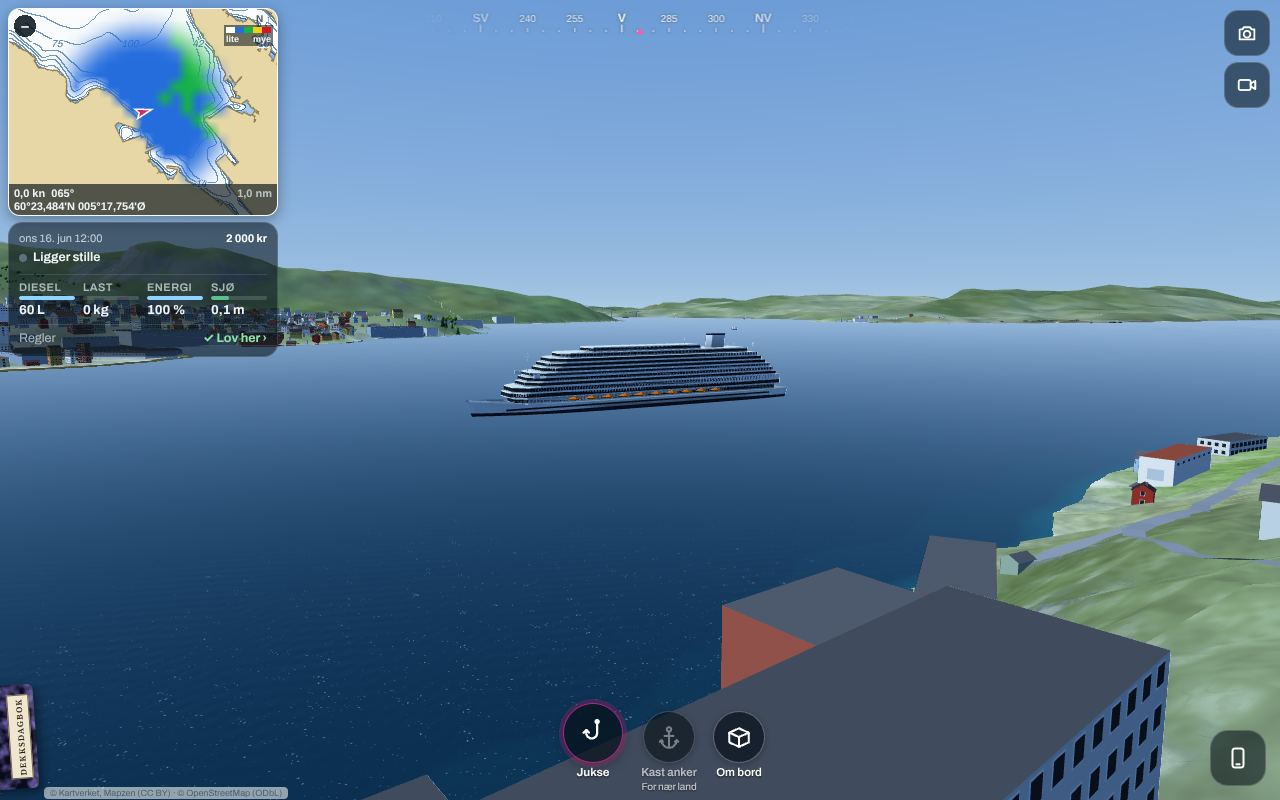
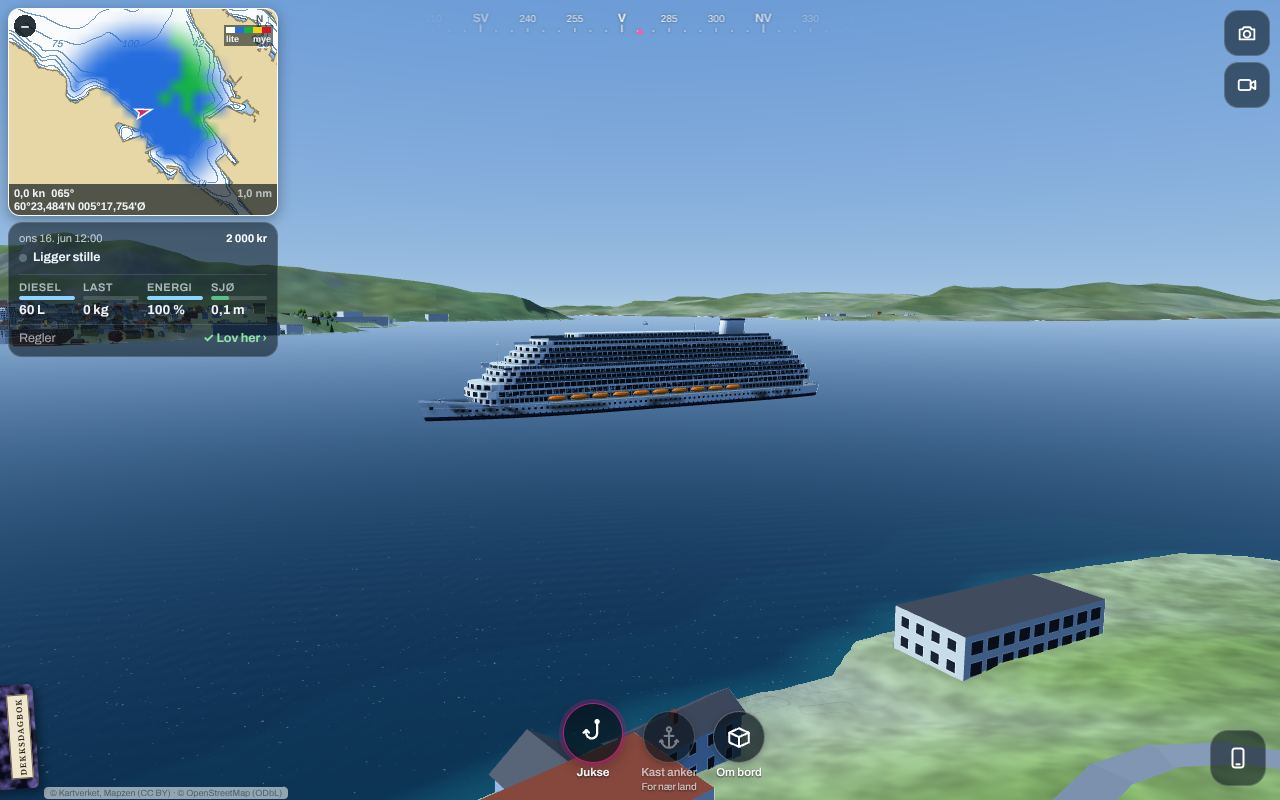
Steg 36 Ø15 N7: Bergen-målingen, stikkprøvene og de stående bildene
Bergen 16.06.2027 kl. 15 (npcmaal, vec-pakkene i bygget): 578 tegnekall og 3 032 119 trekanter per bilde før, 548 og 3 035 504 etter.
npcshot_skip stående 10 av 10 grønne, cruiseskipet i fart grønt med kameraet innen 420 m; kystruta (npcshot, kontroll av ferjene)
grønn med LOD 300 m nær, 1 km enkel, 2,2 km kassa; dbg23o stille. anchorlight3d rød på .anchal-ventingen, like rød på arbeidsgrenens
bygg uten endringen (BACKLOG 10.6, kjent). Stikkprøver langs kysten i 4.18c-2.

Claude-Session: https://claude.ai/code/session_013BxXiDfjiF1DiLJMmM77KU

diff --git a/docs/systemer/npc-trafikk.md b/docs/systemer/npc-trafikk.md
@@ -344,7 +344,8 @@ Samme regler som over (valg 2 A, bare utsiden, ingen navn, merke eller logo). Sk
 - **Lanternene** etter vedlegg I som for de andre (`check()`); regelen om at sidelanternene ikke står forut for topplanterna (3 b) gjelder fra 20 m og sjekkes bare der. En fiskebåtmodell skaleres til registerets båter opp til den lengste med redskapet (not 27,5 m, snurrevad 24,5, trål 23,4, line 22,1 m), og fra 20 m skal topplanterna stå bredden over skroget: `check()` regner det også for den lengste skalerte båten (`scale_to`), og topplanterna sitter derfor 3,8 m over styrhustaket på 15 m-modellene (kontrollen 13.11.2026 fant at 2,5 m ga 7,4–8,0 m mot 8,2–9,2 m på de lengste). **Seilbåten** viser topplanterna (motorlys) også når hun seiler; `lanterns` vet ikke om seilet, så N6 må gi seilbåtene en tilstand for det (regel 25).
 - **Oppslaget koster lite:** `npcGear` husker svaret per id og lengde (også «ingen», for båter som ikke er registerets: turbåtene og Kystvakta), og `npcGearT` regner modellen én gang per båtens oppføring (`n._gT`), ikke flere ganger per bilde. Fargedrakten gis som skrogfarge alene (`glbPaint`), ikke som et design med stripe (`glbDesign`, som leser hele modellen). **Riktigere ville vært** at `npcStates` tok med `gear` i kystflåtens oppføring (én linje i `core/05-vessels.js`, der båten `bt` alt har det); da faller oppslaget bort og to båter på samme plass med samme lengde får hvert sitt redskap. Steget fikk ikke røre `core/`, så det står i backloggen sammen med kaia.
 - **Delte id-er:** to av kystflåtens båter kan ha samme id (de deler plass i `flaate.json`). Redskapsoppslaget, modellbufferne (`NKM`) og mannskapet (`NCREW`) nøkles derfor på id og lengde for kystflåten. Testkameraet `npcLook` følger den første båten med id-en, så `npcshot` velger bare båter med en id ingen annen i havna har.
-- **Målt** (`tests/npcmaal.py`, 1280×800, SwiftShader, 12 bilder per måling, før = arbeidsgrenen uten andre del): **Lofoten 10.03.2027 kl. 12**, båten 200 m fra havna i Lofoten-flisene med flest båter med redskapsmodell (`14:9.36`; innen 1,5 km sto en snurrevadbåt nær og en notbåt enkel på 1,1 km): 330 tegnekall og 913 494 trekanter per bilde før, 330 og 900 745 etter (−1,4 %: snurrevadmodellen på 3 914 trekanter erstattet spillerens båt). Bergen: se under «Bergen».
+- **Målt** (`tests/npcmaal.py`, 1280×800, SwiftShader, 12 bilder per måling, før = arbeidsgrenen uten andre del): **Lofoten 10.03.2027 kl. 12**, båten 200 m fra havna i Lofoten-flisene med flest båter med redskapsmodell (`14:9.36`; innen 1,5 km sto en snurrevadbåt nær og en notbåt enkel på 1,1 km): 330 tegnekall og 913 494 trekanter per bilde før, 330 og 900 745 etter (−1,4 %: snurrevadmodellen på 3 914 trekanter erstattet spillerens båt). **Bergen 16.06.2027 kl. 15** (samme sted som i første del, bygget med vec-pakkene, så byens bygninger er med): 578 tegnekall og 3 032 119 trekanter per bilde før, 548 og 3 035 504 etter (+0,1 %; færre kall fordi en redskapsmodell er ett kall der spillerens båt var skrog og glass). Skipsfarten og fritidsbåtene er ikke i malen og koster ingenting før N5 og N6.
+- **Sett** (13.11.2026, `npcshot_fisk` 10 av 10 grønne i begge formater, `npcshot_skip` alle grønne i begge formater; bildene i `docs/okter/2026-11-13-36/`): fiskebåtene i Telemark (58,9°N, reketråler og teinebåt), på Sotra og i Hardanger (60,1–60,3°N, notbåter), på Frøya og ved Kristiansund (63,1–63,9°N, snurrevad, teine og kystlinebåt), i Lofoten (67,7°N) og ved Tromsø (69,6°N, snurrevad), og Vardø (70,9°N) der feilen med kaia ble funnet; skipsfarten, fritidsbåten og seilbåten som prøveskip i Byfjorden ved Bergen, dag og natt.
 - **Tester:** `npcshot.py` med `NPC_SHOT_SET=fisk` (`npcshot_fisk.py`; en båt med hvert redskap i havna i `flaate.json` som har flest, ved kaia og under fart, en marsdag og en novembernatt; kameraet der ingen kai eller land står mellom; trenger vec-pakkene, `KYST_VEC=1`) og `NPC_SHOT_SET=skip` (`npcshot_skip.py`; et prøveskip testen legger inn i `npcStates` utenfor Bergen, stille og i fart; trenger linjene i malen, et eget bygg til N5 har dem). `npcmaal.py` med `NPC_MAAL_STED=lofoten` måler tegnekall og trekanter i havna i Lofoten med flest slike båter, 10.03.2027.
 
 ## 5.14 NPC-flåte og kartplotter
